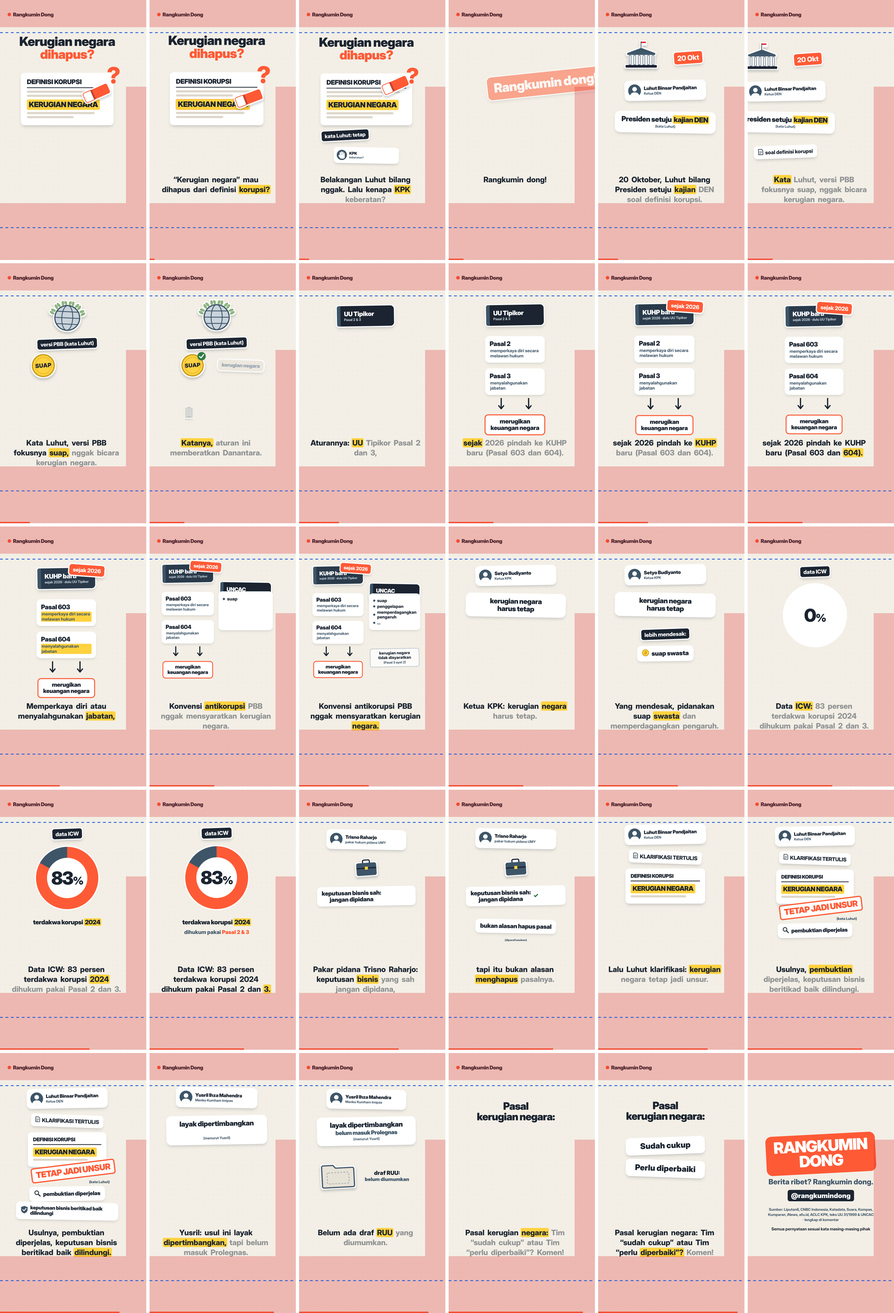
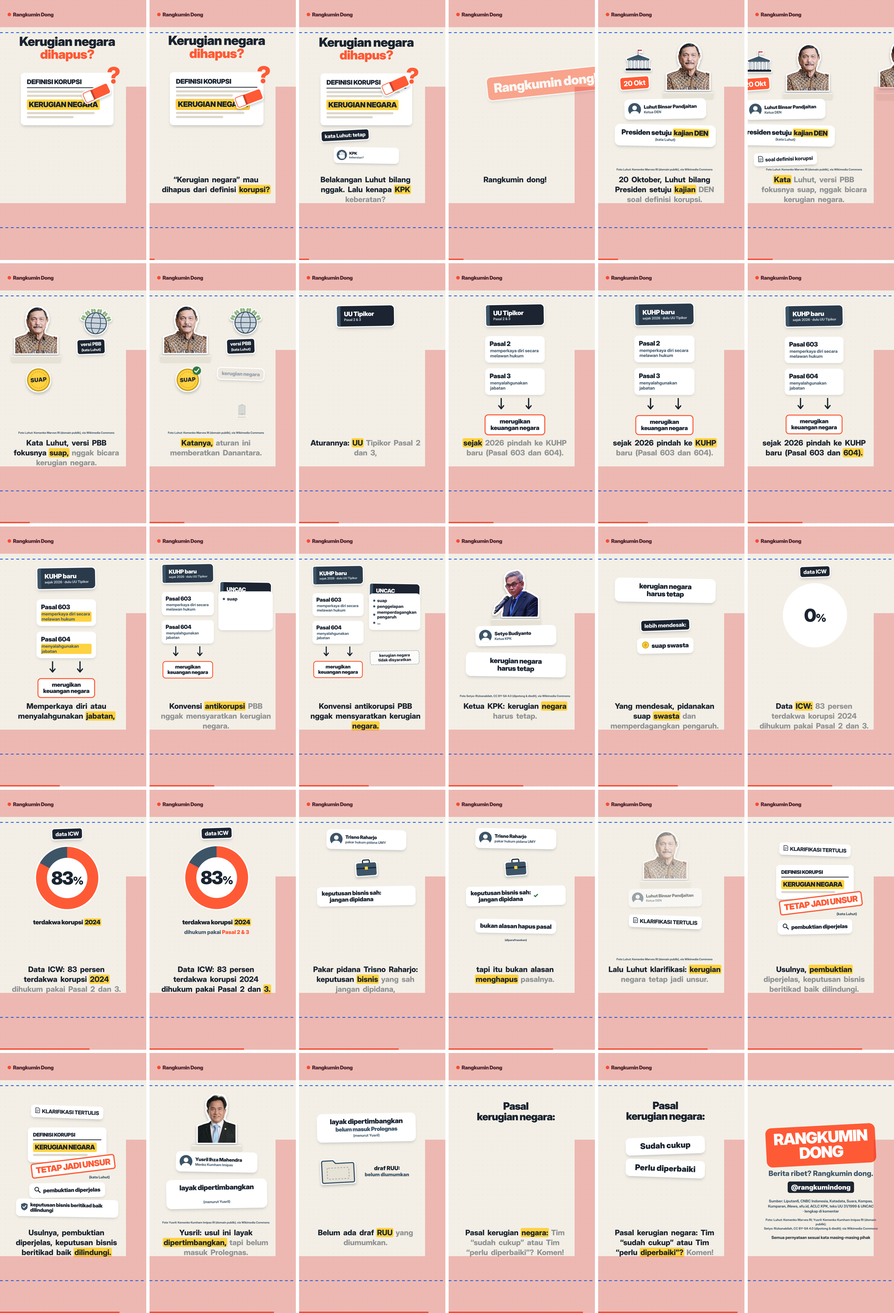
22 Oct definisi-korupsi: person cut-outs (Luhut, Setyo, Yusril), QA PASS; commons.py neutral UA + Retry-After; cutout.py --keep-ellipse
Claude-Session: https://claude.ai/code/session_018DWTw3qfqaP92E6bvnwzQA

diff --git a/accounts/rangkumindong/videos/2026-10-22-definisi-korupsi-kerugian-negara/index.html b/accounts/rangkumindong/videos/2026-10-22-definisi-korupsi-kerugian-negara/index.html
@@ -18,6 +18,14 @@
   .ntag .ic { flex: 0 0 106px; height: 106px; border-radius: 50%; background: var(--slate); display: flex; align-items: center; justify-content: center; overflow: hidden; }
   .ntag .nm { font-weight: 900; font-size: 40px; line-height: 1.08; letter-spacing: -1px; white-space: nowrap; }
   .ntag .rl { font-weight: 700; font-size: 29px; color: var(--slate); white-space: nowrap; margin-top: 4px; }
+  /* real-person photo unit: identical size for every photographed speaker, same outline + paper ledge */
+  .pu { width: 400px; height: 520px; }
+  .pu .pimg { position: absolute; left: -60px; right: -60px; bottom: 40px; height: 500px; display: flex; justify-content: center; align-items: flex-end; overflow: hidden; }
+  .pu .pimg img { width: auto; display: block; }
+  .pu .pledge { position: absolute; left: -10px; right: -10px; bottom: 0; height: 64px; background: var(--paper-2); border-top: 6px solid #fff;
+                border-radius: 14px; box-shadow: 0 -10px 22px rgba(27,36,48,.10); }
+  #credit { position: absolute; left: 60px; width: 860px; top: 1238px; text-align: center; font-weight: 700; font-size: 21px; line-height: 1.3; color: var(--slate); z-index: 6; }
+  #credit span { background: rgba(243,239,230,.9); padding: 1px 8px; border-radius: 6px; }
   .bub { position: absolute; background: #fff; border-radius: 34px; padding: 26px 36px 30px; text-align: center;
          font-weight: 900; font-size: 58px; line-height: 1.08; letter-spacing: -1.5px; box-shadow: 0 0 0 9px #fff, 0 18px 26px rgba(27,36,48,.2); }
   .bub::after { content: ""; position: absolute; left: 90px; top: -34px; border: 22px solid transparent; border-bottom: 22px solid #fff; border-left-width: 0; }
@@ -81,23 +89,25 @@
 
     <!-- C (0,2400): the claim, 20 Okt -->
     <div class="zone" style="left:0; top:2400px;">
-      <div id="cIst" class="abs sticker-svg" style="left:290px; top:540px;"></div>
-      <div id="cDate" class="abs tag accent sticker" style="left:680px; top:560px; font-size:58px;">20 Okt</div>
-      <div id="cLuhut" class="abs ntag" style="left:490px; top:830px;"><div class="ic person"></div>
+      <div id="cIst" class="abs sticker-svg" style="left:235px; top:560px; scale:.8;"></div>
+      <div id="cDate" class="abs tag accent sticker" style="left:235px; top:770px; font-size:58px;">20 Okt</div>
+      <div id="pC" class="abs pu" style="left:680px; top:650px;"><div class="pimg"><img src="../../assets/people/luhut-binsar-pandjaitan.png" alt=""></div><div class="pledge"></div></div>
+      <div id="cLuhut" class="abs ntag" style="left:490px; top:985px;"><div class="ic person"></div>
         <div><div class="nm">Luhut Binsar Pandjaitan</div><div class="rl">Ketua DEN</div></div></div>
-      <div id="cBub" class="abs bub" style="left:490px; top:1095px; width:820px;">Presiden setuju <span id="cDen" style="border-radius:10px; padding:0 8px;">kajian DEN</span><small>(kata Luhut)</small></div>
-      <div id="cDef" class="abs tag light sticker" style="left:490px; top:1345px; font-size:44px; display:flex; align-items:center; gap:16px;"><span id="cDefIc"></span>soal definisi korupsi</div>
+      <div id="cBub" class="abs bub" style="left:490px; top:1205px; width:820px;">Presiden setuju <span id="cDen" style="border-radius:10px; padding:0 8px;">kajian DEN</span><small>(kata Luhut)</small></div>
+      <div id="cDef" class="abs tag light sticker" style="left:490px; top:1405px; font-size:44px; display:flex; align-items:center; gap:16px;"><span id="cDefIc"></span>soal definisi korupsi</div>
     </div>
 
     <!-- C2 (1240,2400): "versi PBB" + Danantara (all as Luhut's account) -->
     <div class="zone" style="left:1240px; top:2400px;">
-      <div id="gGlobe" class="abs sticker-svg" style="left:490px; top:540px;"></div>
-      <div id="gLbl" class="abs tag sticker" style="left:490px; top:745px; font-size:44px;">versi PBB (kata Luhut)</div>
-      <div id="gSuap" class="abs" style="left:290px; top:930px; display:flex; flex-direction:column; align-items:center; gap:8px;"></div>
-      <div id="gKN" class="abs chip" style="left:690px; top:930px; font-size:42px; color:#9AA6B1; background:#ECE8DF;">kerugian negara</div>
-      <div id="gDan" class="abs" style="left:260px; top:1330px; display:flex; flex-direction:column; align-items:center; gap:6px;"></div>
-      <div id="gW" class="abs sticker-svg" style="left:260px; top:1128px;"></div>
-      <div id="gBer" class="abs tag accent sticker" style="left:690px; top:1300px; font-size:42px; text-align:center; line-height:1.1;">memberatkan<br><span style="font-size:30px; font-weight:700;">(kata Luhut)</span></div>
+      <div id="pC2" class="abs pu" style="left:230px; top:650px;"><div class="pimg"><img src="../../assets/people/luhut-binsar-pandjaitan.png" alt=""></div><div class="pledge"></div></div>
+      <div id="gGlobe" class="abs sticker-svg" style="left:700px; top:560px; scale:.85;"></div>
+      <div id="gLbl" class="abs tag sticker" style="left:690px; top:770px; font-size:40px; text-align:center; line-height:1.1;">versi PBB<br><span style="font-size:30px; font-weight:700;">(kata Luhut)</span></div>
+      <div id="gSuap" class="abs" style="left:250px; top:1050px; display:flex; flex-direction:column; align-items:center; gap:8px;"></div>
+      <div id="gKN" class="abs chip" style="left:690px; top:1000px; font-size:42px; color:#9AA6B1; background:#ECE8DF;">kerugian negara</div>
+      <div id="gDan" class="abs" style="left:700px; top:1308px; display:flex; flex-direction:column; align-items:center; gap:6px;"></div>
+      <div id="gW" class="abs sticker-svg" style="left:700px; top:1110px;"></div>
+      <div id="gBer" class="abs tag accent sticker" style="left:270px; top:1330px; font-size:42px; text-align:center; line-height:1.1;">memberatkan<br><span style="font-size:30px; font-weight:700;">(kata Luhut)</span></div>
     </div>
 
     <!-- D (2480,2400): what the law says — two books side by side -->
@@ -121,12 +131,13 @@
 
     <!-- E (0,4800): Ketua KPK -->
     <div class="zone" style="left:0; top:4800px;">
-      <div id="eTag" class="abs ntag" style="left:490px; top:480px;"><div class="ic person"></div>
+      <div id="pE" class="abs pu" style="left:490px; top:650px;"><div class="pimg"><img src="../../assets/people/setyo-budiyanto.png" alt=""></div><div class="pledge"></div></div>
+      <div id="eTag" class="abs ntag" style="left:490px; top:985px;"><div class="ic person"></div>
         <div><div class="nm">Setyo Budiyanto</div><div class="rl">Ketua KPK</div></div></div>
-      <div id="eBub" class="abs bub" style="left:490px; top:730px; width:820px;">kerugian negara<br>harus tetap</div>
-      <div id="eHd" class="abs tag sticker" style="left:490px; top:975px; font-size:46px;">lebih mendesak:</div>
-      <div id="eC1" class="abs chip" style="left:490px; top:1135px;"><span id="eI1"></span>suap swasta</div>
-      <div id="eC2" class="abs chip" style="left:490px; top:1325px;"><span id="eI2"></span>memperdagangkan pengaruh</div>
+      <div id="eBub" class="abs bub" style="left:490px; top:1230px; width:820px;">kerugian negara<br>harus tetap</div>
+      <div id="eHd" class="abs tag sticker" style="left:490px; top:1520px; font-size:46px;">lebih mendesak:</div>
+      <div id="eC1" class="abs chip" style="left:490px; top:1690px;"><span id="eI1"></span>suap swasta</div>
+      <div id="eC2" class="abs chip" style="left:490px; top:1880px;"><span id="eI2"></span>memperdagangkan pengaruh</div>
     </div>
 
     <!-- E2 (1240,4800): ICW donut (exact 83 / 17) -->
@@ -154,27 +165,29 @@
 
     <!-- F (0,7200): Luhut's written clarification -->
     <div class="zone" style="left:0; top:7200px;">
-      <div id="fTag" class="abs ntag" style="left:490px; top:450px;"><div class="ic person"></div>
+      <div id="pF" class="abs pu" style="left:490px; top:650px;"><div class="pimg"><img src="../../assets/people/luhut-binsar-pandjaitan.png" alt=""></div><div class="pledge"></div></div>
+      <div id="fTag" class="abs ntag" style="left:490px; top:985px;"><div class="ic person"></div>
         <div><div class="nm">Luhut Binsar Pandjaitan</div><div class="rl">Ketua DEN</div></div></div>
-      <div id="fPaper" class="abs tag light sticker" style="left:490px; top:640px; font-size:44px; display:flex; align-items:center; gap:16px;"><span id="fPIc"></span>KLARIFIKASI TERTULIS</div>
-      <div id="fDoc" class="abs doc" style="left:490px; top:880px; width:640px; padding:26px 34px;">
+      <div id="fPaper" class="abs tag light sticker" style="left:490px; top:1185px; font-size:44px; display:flex; align-items:center; gap:16px;"><span id="fPIc"></span>KLARIFIKASI TERTULIS</div>
+      <div id="fDoc" class="abs doc" style="left:490px; top:1460px; width:640px; padding:26px 34px;">
         <div class="ttl" style="font-size:42px;">DEFINISI KORUPSI</div>
         <div style="margin:10px 0 8px;"><span class="phr" style="font-size:54px;">KERUGIAN NEGARA</span></div>
         <div class="ln" style="width:80%"></div></div>
-      <div id="fStamp" class="abs stampx" style="left:540px; top:1060px; font-size:70px;">TETAP JADI UNSUR</div>
-      <div id="fKata" class="abs lbl" style="left:760px; top:1150px; font-size:30px;">(kata Luhut)</div>
-      <div id="fC1" class="abs chip" style="left:490px; top:1250px; font-size:46px;"><span id="fI1"></span>pembuktian diperjelas</div>
-      <div id="fC2" class="abs chip wrap" style="left:490px; top:1395px; width:840px; font-size:42px; text-align:left;"><span id="fI2"></span><span>keputusan bisnis beritikad baik dilindungi</span></div>
+      <div id="fStamp" class="abs stampx" style="left:540px; top:1640px; font-size:70px;">TETAP JADI UNSUR</div>
+      <div id="fKata" class="abs lbl" style="left:760px; top:1730px; font-size:30px;">(kata Luhut)</div>
+      <div id="fC1" class="abs chip" style="left:490px; top:1840px; font-size:46px;"><span id="fI1"></span>pembuktian diperjelas</div>
+      <div id="fC2" class="abs chip wrap" style="left:490px; top:1990px; width:840px; font-size:42px; text-align:left;"><span id="fI2"></span><span>keputusan bisnis beritikad baik dilindungi</span></div>
     </div>
 
     <!-- G (1240,7200): Yusril + status -->
     <div class="zone" style="left:1240px; top:7200px;">
-      <div id="yTag" class="abs ntag" style="left:490px; top:450px;"><div class="ic person"></div>
+      <div id="pG" class="abs pu" style="left:490px; top:650px;"><div class="pimg"><img src="../../assets/people/yusril-ihza-mahendra.png" alt=""></div><div class="pledge"></div></div>
+      <div id="yTag" class="abs ntag" style="left:490px; top:985px;"><div class="ic person"></div>
         <div><div class="nm">Yusril Ihza Mahendra</div><div class="rl">Menko Kumham Imipas</div></div></div>
-      <div id="yBub" class="abs bub" style="left:490px; top:720px; width:820px;"><span id="yB1">layak dipertimbangkan</span><br><span id="yB2" style="color:var(--slate); font-size:48px;">belum masuk Prolegnas</span><small>(menurut Yusril)</small></div>
-      <div id="yFold" class="abs sticker-svg" style="left:250px; top:1100px;"></div>
-      <div id="yDraf" class="abs" style="left:665px; top:1100px; text-align:center; font-weight:900; font-size:48px; line-height:1.08; white-space:nowrap;">draf RUU:<br><span style="color:var(--slate); font-size:42px;">belum diumumkan</span></div>
-      <div id="yStamp" class="abs" style="left:490px; top:1340px; font-weight:900; font-size:76px; letter-spacing:-2px; color:var(--slate);
+      <div id="yBub" class="abs bub" style="left:490px; top:1250px; width:820px;"><span id="yB1">layak dipertimbangkan</span><br><span id="yB2" style="color:var(--slate); font-size:48px;">belum masuk Prolegnas</span><small>(menurut Yusril)</small></div>
+      <div id="yFold" class="abs sticker-svg" style="left:250px; top:1620px;"></div>
+      <div id="yDraf" class="abs" style="left:665px; top:1620px; text-align:center; font-weight:900; font-size:48px; line-height:1.08; white-space:nowrap;">draf RUU:<br><span style="color:var(--slate); font-size:42px;">belum diumumkan</span></div>
+      <div id="yStamp" class="abs" style="left:490px; top:1860px; font-weight:900; font-size:76px; letter-spacing:-2px; color:var(--slate);
            border:9px solid var(--slate); border-radius:22px; padding:8px 30px 14px; white-space:nowrap; background:rgba(243,239,230,.92);">BELUM JADI ATURAN</div>
     </div>
 
@@ -188,12 +201,14 @@
   </div>
 
   <div id="brand"><div class="dot"></div><b>Rangkumin Dong</b></div>
+  <div id="credit"></div>
   <div id="subs"></div>
   <div id="endcard">
     <div class="logo">RANGKUMIN<br>DONG</div>
     <div class="tl">Berita ribet? Rangkumin dong.</div>
     <div class="h">@rangkumindong</div>
     <div class="src">Sumber: Liputan6, CNBC Indonesia, Katadata, Suara, Kompas,<br>Kumparan, iNews, afu.id, ACLC KPK, teks UU 31/1999 &amp; UNCAC<br>· lengkap di komentar</div>
+    <div class="src" style="font-size:23px; margin-top:0;">Foto: Luhut: Kemenko Marves RI; Yusril: Kemenko Kumham Imipas RI (domain publik);<br>Setyo: Rizkanabilah, CC BY-SA 4.0 (dipotong &amp; diedit); via Wikimedia Commons</div>
     <div class="src" style="font-size:30px; color:var(--ink); margin-top:0;">Semua pernyataan sesuai kata masing-masing pihak</div>
   </div>
   <div id="progress"></div>
@@ -249,6 +264,7 @@ const folderSVG = () => `<svg width="300" height="230" viewBox="0 0 300 230"><pa
   <rect x="58" y="88" width="184" height="94" rx="10" fill="none" stroke="#9AA6B1" stroke-width="6" stroke-dasharray="14 12"/></svg>`;
 
 // ---------- static parts ----------
+document.querySelectorAll('.pu img').forEach((im) => { const f = () => { im.style.height = (im.naturalHeight * 0.8) + 'px'; }; im.complete ? f() : im.addEventListener('load', f); });
 document.querySelectorAll('.ic.person').forEach((d) => (d.innerHTML = personSil()));
 $('aKpkIc').innerHTML = handSVG();
 $('aEr').innerHTML = eraserSVG();
@@ -269,6 +285,15 @@ const R = 215, CIRC = 2 * Math.PI * R;
 $('dnA').setAttribute('stroke-dasharray', `0 ${CIRC}`);
 
 let T_ = 0;
+// photo unit: ledge pops, person rises out of it (same motion for everyone)
+function photo(el, tIn, tOut = Infinity) {
+  const o = K.clamp((T_ - tOut) / 0.25);
+  el.style.opacity = T_ >= tIn ? (1 - o) * K.clamp((T_ - tIn) / 0.1) : 0;
+  el.style.transform = `translate(-50%,-50%) scale(${0.92 + 0.08 * K.spring(T_ - tIn)})`;
+  const s = K.spring(T_ - tIn - 0.05, 150, 16);
+  el.querySelector('img').style.transform = `translateY(${(1 - s) * 480}px)`;
+}
+const CREDIT = {"luhut-binsar-pandjaitan.png": "Foto Luhut: Kemenko Marves RI (domain publik), via Wikimedia Commons", "yusril-ihza-mahendra.png": "Foto Yusril: Kemenko Kumham Imipas RI (domain publik), via Wikimedia Commons", "setyo-budiyanto.png": "Foto Setyo: Rizkanabilah, CC BY-SA 4.0 (dipotong &amp; diedit), via Wikimedia Commons"};
 const pulse = (el, tIn, amt = 0.12, rot = 0) => { const k = K.clamp((T_ - tIn) / 0.45); el.style.transform = `translate(-50%,-50%) scale(${1 + amt * Math.sin(Math.PI * k)}) rotate(${rot}deg)`; };
 const show = (el, on) => { el.style.opacity = on ? 1 : 0; };
 const hi = (el, on) => { el.style.background = on ? '#FFD23F' : 'transparent'; };
@@ -285,10 +310,13 @@ function seek(t) {
     { t: at('l4', -0.3), x: 2480 + 300, y: 2400 + 1040, z: 1.15 },
     { t: at('l5', -0.35), ...zc(2480, 2400), dur: 1.0 },
     { t: at('l6', -0.3), ...zc(0, 4800) },
+    { t: at('l6b', -0.35), ...zc(0, 4800 + 620) },
     { t: at('l7', -0.3), ...zc(1240, 4800) },
     { t: at('l8', -0.3), ...zc(2480, 4800) },
     { t: at('l9', -0.3), ...zc(0, 7200) },
+    { t: W('l9', 'tetap') - 0.75, ...zc(0, 7200 + 620) },
     { t: at('l10', -0.3), ...zc(1240, 7200) },
+    { t: at('l10b', -0.35), ...zc(1240, 7200 + 560) },
     { t: at('cta', -0.3), ...zc(2480, 7200) },
   ];
   K.camera($('world'), keys, t, 1080, 1920, 0.85);
@@ -319,6 +347,7 @@ function seek(t) {
   const c0 = at('l1', -0.1);
   K.pop($('cIst'), t, c0, Infinity, 0);
   K.pop($('cDate'), t, W('l1', '20') - 0.02, Infinity, -4);
+  photo($('pC'), W('l1', 'luhut') - 0.25);
   K.pop($('cLuhut'), t, W('l1', 'luhut') - 0.08, Infinity, -1);
   K.pop($('cBub'), t, W('l1', 'presiden') - 0.08, Infinity, 1);
   hi($('cDen'), t > W('l1', 'kajian') - 0.02);
@@ -326,6 +355,7 @@ function seek(t) {
 
   // ---------- C2: versi PBB / Danantara ----------
   const g0 = at('l2', -0.1);
+  photo($('pC2'), at('l2', -0.35));
   K.pop($('gGlobe'), t, W('l2', 'versi') - 0.1, Infinity, 0);
   $('gGlobe').style.transform += ` rotate(${3 * Math.sin(t * 1.5)}deg)`;
   K.pop($('gLbl'), t, W('l2', 'pbb') - 0.05, Infinity, -2);
@@ -377,7 +407,8 @@ function seek(t) {
   K.pop($('uFoot'), t, W('l5', 'mensyaratkan') - 0.08, Infinity, -1);
 
   // ---------- E: Ketua KPK ----------
-  K.pop($('eTag'), t, at('l6', -0.1), Infinity, -1);
+  photo($('pE'), at('l6', -0.25), at('l6b', -0.35));
+  K.pop($('eTag'), t, at('l6', 0.05), at('l6b', -0.35), -1);
   K.pop($('eBub'), t, W('l6', 'kerugian') - 0.08, Infinity, 1);
   K.pop($('eHd'), t, at('l6b', -0.05), Infinity, -2);
   K.pop($('eC1'), t, W('l6b', 'suap') - 0.08, Infinity, -1);
@@ -409,9 +440,10 @@ function seek(t) {
   K.pop($('tPar'), t, W('l8b', 'menghapus') - 0.05, Infinity, 0);
 
   // ---------- F: clarification ----------
-  K.pop($('fTag'), t, at('l9', -0.1), Infinity, -1);
+  photo($('pF'), at('l9', -0.25), W('l9', 'tetap') - 0.75);
+  K.pop($('fTag'), t, at('l9', 0.05), W('l9', 'tetap') - 0.75, -1);
   K.pop($('fPaper'), t, W('l9', 'klarifikasi') - 0.08, Infinity, 2);
-  K.pop($('fDoc'), t, W('l9', 'kerugian') - 0.1, Infinity, 0);
+  K.pop($('fDoc'), t, W('l9', 'tetap') - 0.6, Infinity, 0);
   const st = W('l9', 'tetap') - 0.1;
   const ss = K.spring(t - st, 320, 18);
   $('fStamp').style.opacity = t >= st ? 1 : 0;
@@ -422,7 +454,8 @@ function seek(t) {
   if (t > W('l9b', 'dilindungi')) { const k = K.clamp((t - W('l9b', 'dilindungi')) / 0.45); $('fI2').style.transform = `scale(${1 + 0.3 * Math.sin(Math.PI * k)})`; }
 
   // ---------- G: Yusril / status ----------
-  K.pop($('yTag'), t, at('l10', -0.1), Infinity, 1);
+  photo($('pG'), at('l10', -0.25), at('l10b', -0.35));
+  K.pop($('yTag'), t, at('l10', 0.05), at('l10b', -0.35), 1);
   K.pop($('yBub'), t, W('l10', 'layak') - 0.1, Infinity, -1);
   show($('yB2'), t > W('l10', 'belum') - 0.05);
   K.pop($('yFold'), t, at('l10b', -0.05), Infinity, -3);
@@ -437,6 +470,15 @@ function seek(t) {
   K.pop($('h1v'), t, W('cta', 'sudah') - 0.1, Infinity, -2);
   K.pop($('h2v'), t, W('cta', 'perlu') - 0.1, Infinity, 2);
   K.pop($('hK'), t, W('cta', 'komen') - 0.05, Infinity, -3);
+
+  // ---------- photo credits while a photo is visible ----------
+  const seen = new Set();
+  for (const id of ['pC', 'pC2', 'pE', 'pF', 'pG']) {
+    const el = $(id); if (parseFloat(el.style.opacity || 0) < 0.3) continue;
+    const r = el.getBoundingClientRect(); if (r.bottom > 260 && r.top < 1250 && r.right > 0 && r.left < 1080) seen.add(el.querySelector('img').src.split('/').pop());
+  }
+  const cr = [...seen].map((k) => `<span>${CREDIT[k]}</span>`).join('<br>');
+  if ($('credit').dataset.c !== cr) { $('credit').innerHTML = cr; $('credit').dataset.c = cr; }
 
   // ---------- end ----------
   const en = K.prog(t, at('end', -0.15), 0.3);

diff --git a/engine/cutout.py b/engine/cutout.py
@@ -1,6 +1,7 @@
 """Turn a photo into a sticker: background removed, white outline and soft shadow baked in, trimmed.
 
   python3 -I engine/cutout.py <in.jpg> <out.png> [--kind person|object] [--outline 14] [--shadow 1]
+        [--keep-ellipse cx,cy,rx,ry,ymax]   # drop background objects merged with the head (above ymax, outside the ellipse)
 
 --kind person uses rembg's u2net_human_seg (people), object uses isnet-general-use (products, logos, props).
 Models live in ~/.u2net (downloaded once from the rembg GitHub release, ~175 MB each):
@@ -29,6 +30,12 @@ def main():
     cut = remove(im, session=sess, post_process_mask=True)  # RGBA
     a = np.array(cut.split()[-1])
     a = np.where(a > 128, 255, 0).astype(np.uint8)  # crisp edge for the sticker look
+    ke = opt("keep-ellipse", "")
+    if ke:  # e.g. an emblem behind the head that segmentation merged with the person:
+        cx, cy, rx, ry, ymax = map(float, ke.split(","))  # above ymax keep only the head ellipse
+        yy, xx = np.mgrid[0:a.shape[0], 0:a.shape[1]]
+        inside = ((xx - cx) / rx) ** 2 + ((yy - cy) / ry) ** 2 <= 1
+        a[(yy < ymax) & ~inside] = 0
     alpha = Image.fromarray(a).filter(ImageFilter.GaussianBlur(0.8))
     cut.putalpha(alpha)
     pad = outline * 3 + 40

diff --git a/engine/commons.py b/engine/commons.py
@@ -11,11 +11,11 @@ import json, re, sys, urllib.error, urllib.parse, urllib.request
 from pathlib import Path
 
 API = "https://commons.wikimedia.org/w/api.php"
-UA = {"User-Agent": "RangkuminDongBot/0.1 (https://github.com/psatyadarma/explainer-studio; news explainer videos) python-urllib"}
+UA = {"User-Agent": "RangkuminDongBot/0.1 (news explainer videos; no personal data in headers) python-urllib"}
 OK = re.compile(r"^(public domain|pd|cc0|cc by(-sa)? ?\d|cc-by(-sa)?-\d)", re.I)
 
 
-def fetch(url, tries=4):
+def fetch(url, tries=8):
     import time
     for k in range(tries):
         try:
@@ -23,7 +23,10 @@ def fetch(url, tries=4):
         except urllib.error.HTTPError as e:
             if e.code != 429 or k == tries - 1:
                 raise
-            time.sleep(5 * (k + 1))  # Commons rate limit: back off
+            # Commons rate limit: honour Retry-After (often 30-60 s on shared egress), else back off
+            wait = max(int(e.headers.get("Retry-After") or 0), 10 * (k + 1)) + 2
+            print(f"commons: 429, waiting {wait}s", file=sys.stderr)
+            time.sleep(wait)
 
 
 def api(**p):

diff --git a/accounts/rangkumindong/videos/2026-10-22-definisi-korupsi-kerugian-negara/qa.md b/accounts/rangkumindong/videos/2026-10-22-definisi-korupsi-kerugian-negara/qa.md
@@ -1,19 +1,26 @@
 VERDICT: PASS
 
-QA round 2, 22 Okt 2026 · out/video.mp4 (re-rendered 01:09) · voice build/voice.wav sha e8a4573f… (same take as round 1: 1.15x, l5 cut, h2 pre-gap, mix with --deess)
+QA round 3, 22 Okt 2026 · out/video.mp4 (re-render 10:52, person cut-outs of Luhut, Setyo and Yusril added) · voice and mix unchanged (same take as rounds 1–2)
 
-1. Subtitle sync: PASS: median -75 ms (positive = highlight late), 92% of 153 matched words in [-200, +100] ms, 1% >150 ms late; worst lines: l4b -164 ms, l4 -125 ms, l2b -108 ms, l4c -96 ms, l6b -92 ms. (lead 0.02; speech-to-text cached, no credits used.)
-2. Visuals: OK. The "sejak 2026" badge is gone, and the "KUHP baru" title is fully readable at 29–42 s (stills at 25, 27 … 45 s, plus 34 s and 41.8 s full size). A fresh contact sheet (qa-sheet.png) shows the rest of the video unchanged from round 1. Notes carried over, not flagged: whip-pans show the neighbouring zone for about 0.4 s at line changes (house style), and the donut hold at 53–57 s is 4.0 s, which is borderline but not over.
-3. Numbers: OK. The "(Pasal 3 ayat 2)" footnote is removed, and the box now reads "kerugian negara tidak disyaratkan". All on-screen numbers are spoken and match draft.md and post.json: 20 Okt, Pasal 2 & 3, 2026, Pasal 603/604, 83%, 2024.
-4. Audio: OK. -14.2 LUFS integrated, -3.7 dBTP true peak, LRA 2.3. No clipping.
-5. Format: OK. 1080×1920, 30 fps, 88.23 s video against 88.20 s audio (difference 0.03 s). The cover frame is unchanged and readable.
-6. Must-haves: OK. No photos are used, and every speaker has the same faceless name tag. The tagline, end card (handle and sources), and "Semua pernyataan sesuai kata masing-masing pihak" are all present. This is not a market topic and it is a new storyline, so the saham disclaimer and PART badge are not needed.
+1. Subtitle sync: PASS: median -75 ms, 92% of 153 matched words in [-200, +100] ms, 1% >150 ms late; worst lines: l4b -164, l4 -125, l2b -108 ms (lead 0.02; speech-to-text cached, no credits used). Identical to round 2. Tool note: running `engine/qa_sync.py` without `--lead` used 0.08 and gave FIX at -135 ms. It does not read `window.SUB_LEAD` from index.html, even though the agent doc says it does. Always pass `--lead 0.02` for this video, or fix the script.
+2. Visuals: OK.
+   - Cut-outs: there is no leftover background. The silhouettes are clean, and faces keep their aspect ratio (width is auto, height is 0.8 × natural), so nothing is distorted.
+   - Size and treatment are equal. Rendered heights are 450, 449 and 463 px, head sizes look the same, all three use the same white sticker border, ledge, rise-from-ledge motion, name tag and credit line, and all are centred in their zone.
+   - Safe area: OK on stills at 0, 12, 43.5, 64.5, 75 and 85.5 s (qa-safezone sheet). Photos, tags and credits all sit inside the 3:4 crop and clear of the shaded zones.
+   - Cover (t=0) is unchanged and has no photo. The hook is readable.
+   - Regressions: none. The "sejak 2026" sticker badge (d2026) is still absent; only the planned small "sejak 2026 · dulu UU Tipikor" book subtitle remains, as accepted in round 2. The rest of the contact sheet matches round 2.
+3. Numbers: OK, unchanged. The "(Pasal 3 ayat 2)" footnote is still gone (not in index.html, and the box reads "kerugian negara tidak disyaratkan").
+4. Audio: OK. -14.2 LUFS, -3.7 dBTP, LRA 2.3 (same as round 2).
+5. Format: OK. 1080×1920, 30 fps, 88.23 s video against 88.20 s audio.
+6. Must-haves: OK.
+   - Each of the three PNGs has an `assets/people/<slug>.json` with an allowed licence: Luhut public domain, Yusril public domain, Setyo CC BY-SA 4.0.
+   - On-screen credit shows while each photo is visible (Luhut 10.0–23.2 s and 64.4–66.1 s, Setyo 43.0–45.7 s, Yusril 72.8–76.8 s). The text matches the json `credit`/`author`; the ministry names are shortened to "Kemenko Marves RI" and "Kemenko Kumham Imipas RI", the same way as the earlier muhammad-lutfi precedent.
+   - Setyo carries "CC BY-SA 4.0 (dipotong & diedit)", as the share-alike licence requires.
+   - Credits also appear on the end card and in the post.json caption, and post.json `photo_credits` matches all three json files (file, page, author, licence).
 
-## Questions from production (unchanged from round 1)
-(a) Danantara heard as "dan antara": **not an audible problem.** In voice.wav the energy stays above about -16 dB through the whole word (22.14–22.62 s), with no pause between "dan" and "antara". The speech-to-text split is lexical: it doesn't know the proper noun, and "antara" has logprob -1.0. No re-take is needed.
-(b) "BELUM JADI ATURAN" stamp (l10b): **acceptable, keep it.** It is a factual summary of what l10 says (not in Prolegnas, no draft RUU announced), contains no number, and was in the approved visual plan. "MASIH WACANA" would be possible, but it is more loaded.
-(c) Political neutrality: **OK.** Luhut, Setyo, Trisno and Yusril all get identical plain name tags, and every claim chip is attributed. The two vote chips are equal and each is revealed as it is spoken. The hook eraser only hovers and nothing is erased. The h2 pre-gap works: there is about 180 ms of silence before "Ka Pe Ka", and speech-to-text heard "KPK".
+Credit flicker during pans: OK, not flagged. I checked every frame of the credit band (y 1200–1340). Credit text overlaps sliding content for at most 3 frames (72.83–72.90 s, where the Yusril credit crosses "pembuktian diperjelas" and "(kata Luhut)" during the whip-pan) and for 1 frame at 43.03 s (Setyo credit against the name tag). That is too short to read as overlapping text, and the credits never stack two lines.
 
-## Round 1 fixes (both applied and verified)
-1. The "sejak 2026" badge over the "KUHP baru" title (29–42 s) was removed. Verified.
-2. The unspoken "(Pasal 3 ayat 2)" footnote (39–43 s) was removed. Verified.
+## Optional polish (not blocking)
+- Luhut cut-out (`assets/people/luhut-binsar-pandjaitan.png`): small white specks and a slightly chewed hair edge at both temples (about x 120 and x 400, y 120–160 in the PNG). Visible only when zoomed in; invisible on a phone. If re-cut, feather the mask at the hair.
+- Setyo cut-out: a faint tan fringe from the original background sits inside the white border around the hair top and right shoulder. It is not visible at playback size, but a 1–2 px mask erode would clean it.
+- Setyo is the only candid shot (speaking into a mic, looking off-camera), while Luhut and Yusril are smiling official portraits. Size and framing are equal, and the json notes the official KPK portrait could not be downloaded (Commons 429). Swap in `File:Ketua KPK RI Setyo Budiyanto.jpg` if it becomes downloadable, for fully matched treatment.
